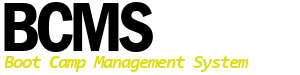
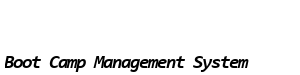
Fixed issues for cohort access for Instructor
* Changed assessment form
   * Provide access to student for instructor
   * Correct max score label
* Route instructor change back to assessment list
* Fixed assessment edit and create invalid url back to list
* Create bcms.png with prod colors

Changed region(s): [[0.0, 0.0267, 0.51, 0.6933], [0.0, 0.7467, 0.84, 0.96]]

diff --git a/src/app/feat/assessment/assessment-form.component.html b/src/app/feat/assessment/assessment-form.component.html
@@ -19,7 +19,7 @@
                     <td>Id:</td>
                     <td>{{asmt.id}}</td>
                 </tr>
-                <tr *ngIf="_loggedInUser && (_loggedInUser.role.isRoot || _loggedInUser.role.isAdmin)">
+                <tr *ngIf="_loggedInUser && (_loggedInUser.role.isRoot || _loggedInUser.role.isAdmin || _loggedInUser.role.isInstructor)">
                     <td>Student:</td>
                     <td *ngIf="readonly && user.role">{{asmt.enrollment.user.firstname}} {{asmt.enrollment.user.lastname}}</td>
                     <td *ngIf="!readonly">
@@ -49,7 +49,7 @@
                     </td>
                 </tr>
                 <tr>
-                    <td>Score:</td>
+                    <td>Max Score:</td>
                     <td>
                         <input [(ngModel)]="asmt.pointsMax" [disabled]="readonly" type="number" name="pointsMax" size="7">
                     </td>

diff --git a/src/app/feat/assessment/assessment-create/assessment-create.component.ts b/src/app/feat/assessment/assessment-create/assessment-create.component.ts
@@ -47,8 +47,8 @@ export class AssessmentCreateComponent extends BcmsComponent implements OnInit {
         this.asmtsvc.create(this.asmt).subscribe(
           res => {
             this.sys.log.debug("Change successful!", res);
-            let routerLink = this._loggedInUser.role.isRoot || this._loggedInUser.role.isAdmin 
-                              ? `/assessments/list/${this.cohortId}` : "/home"; 
+            let routerLink = this._loggedInUser.role.isRoot || this._loggedInUser.role.isAdmin || this._loggedInUser.role.isInstructor
+                              ? "/assessments/list/"+this.cohortId : "/home"; 
             this.router.navigateByUrl(routerLink);
           },
           err => {

diff --git a/src/app/feat/assessment/assessment-edit/assessment-edit.component.ts b/src/app/feat/assessment/assessment-edit/assessment-edit.component.ts
@@ -37,8 +37,8 @@ export class AssessmentEditComponent extends BcmsComponent implements OnInit {
     this.asmtsvc.change(this.asmt).subscribe(
       res => {
         this.sys.log.debug("Change successful!", res);
-        let routerLink = this._loggedInUser.role.isRoot || this._loggedInUser.role.isAdmin 
-                          ? `/assessments/list/${this.cohortId}` : "/home"; 
+        let routerLink = this._loggedInUser.role.isRoot || this._loggedInUser.role.isAdmin || this._loggedInUser.role.isInstructor
+                          ? "/assessments/list/"+this.cohortId : "/home"; 
         this.router.navigateByUrl(routerLink);
       },
       err => {
